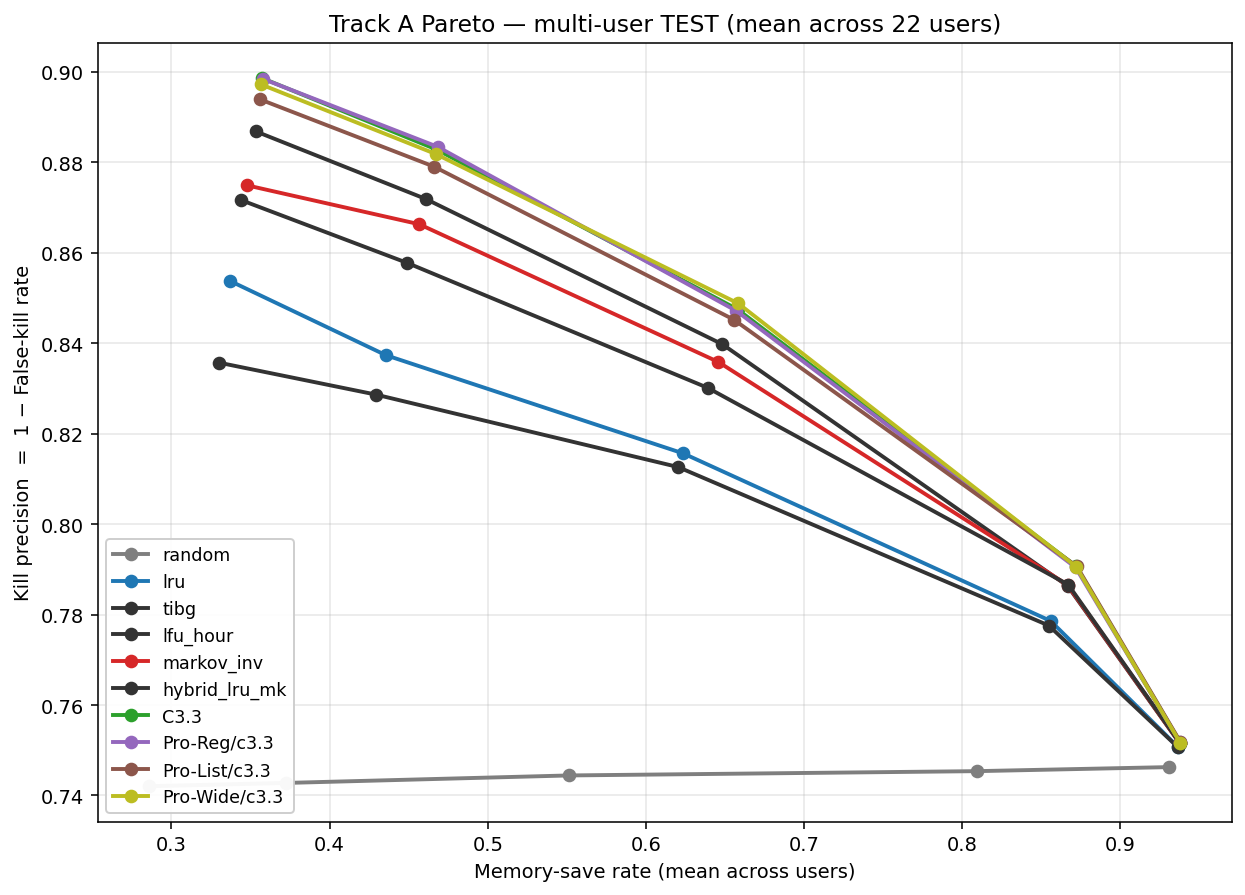
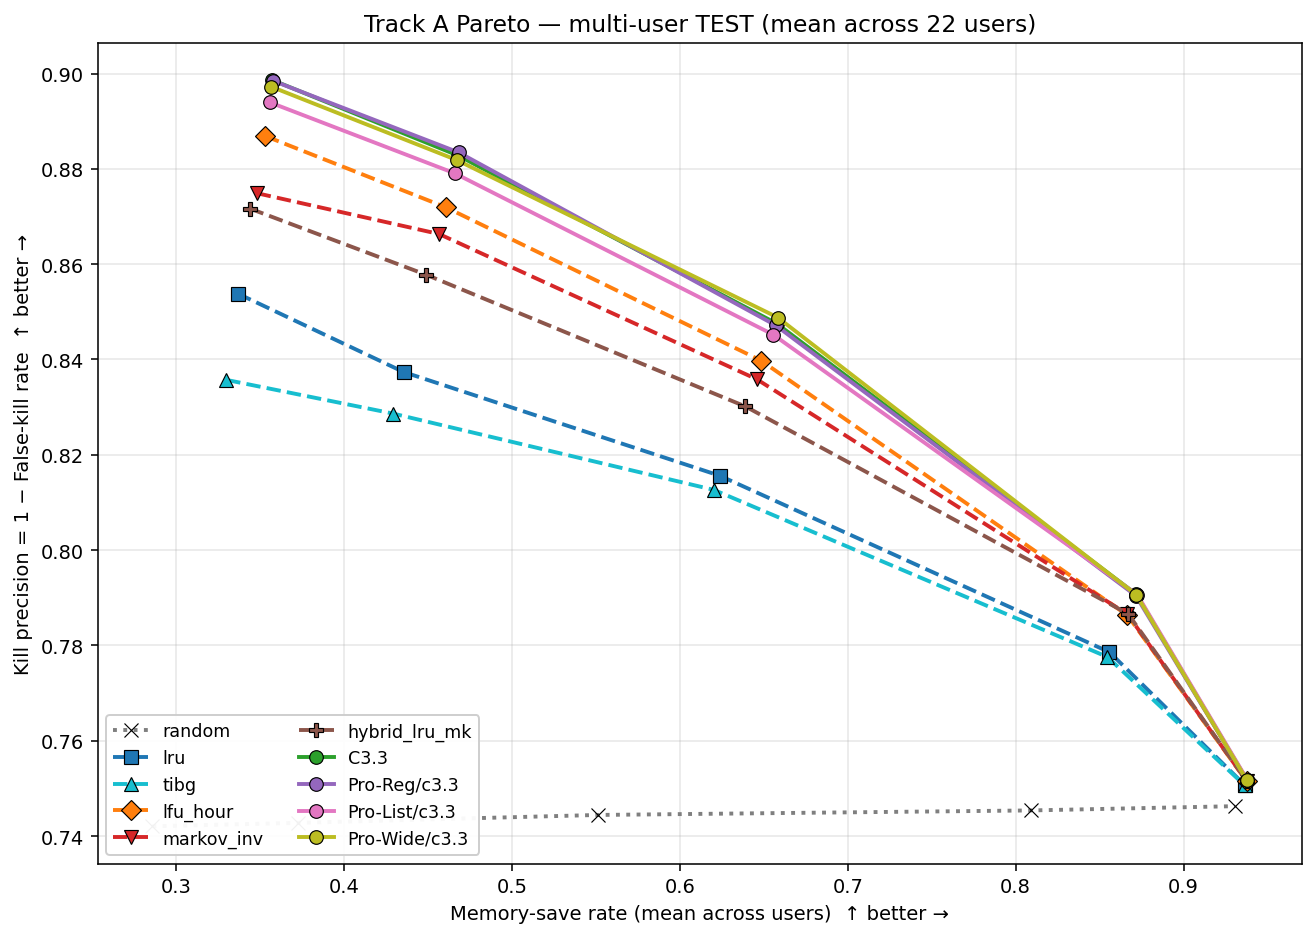
53_eval_h60_multiuser: distinct colours for every baseline + auto-scaled per-user y-axis
Pareto plot:
  - 6 baselines + 4 trained picks each get a deliberate colour + marker
  - Baselines dashed, trained picks solid
  - Marker edges added for visibility against background grid

Per-user PR-AUC bar chart:
  - y-axis auto-scaled to [data_min - 0.02, data_max + 0.02] (currently
    0.61-1.00) so the inter-user variation isn't squashed at the top
  - same colour palette as the Pareto plot
  - bigger figure (13x6.5), legend in 5 columns at the bottom
  - x-tick rotation 60 deg for readability

diff --git a/app_usage_data/scripts/53_eval_h60_multiuser.py b/app_usage_data/scripts/53_eval_h60_multiuser.py
@@ -175,11 +175,27 @@ def bootstrap_user_ci(per_user_vals: list[float], n_boot: int = 1000,
 
 
 def plot_pareto(scored_dfs: dict[str, pd.DataFrame], out_path: Path, title: str):
-    """One Pareto curve per (model, baseline). x = MSR, y = (1 - FK)."""
-    plt.figure(figsize=(9, 6.5), dpi=140)
-    cmap = {"random": "#7f7f7f", "lru": "#1f77b4", "markov_inv": "#d62728",
-            "C3.3": "#2ca02c", "Pro-Reg/c3.3": "#9467bd",
-            "Pro-List/c3.3": "tab:brown", "Pro-Wide/c3.3": "tab:olive"}
+    """One Pareto curve per (model, baseline). x = MSR, y = (1 - FK).
+
+    Each baseline + each trained pick gets a distinct, deliberate colour and
+    line-style so the curves don't blur together.
+    """
+    plt.figure(figsize=(9.5, 6.8), dpi=140)
+    # Distinct colour per baseline (dashed) and per trained pick (solid).
+    cmap = {
+        # Baselines (dashed lines)
+        "random":         {"color": "#7f7f7f", "ls": ":",  "marker": "x"},
+        "lru":            {"color": "#1f77b4", "ls": "--", "marker": "s"},
+        "tibg":           {"color": "#17becf", "ls": "--", "marker": "^"},
+        "lfu_hour":       {"color": "#ff7f0e", "ls": "--", "marker": "D"},
+        "markov_inv":     {"color": "#d62728", "ls": "--", "marker": "v"},
+        "hybrid_lru_mk":  {"color": "#8c564b", "ls": "--", "marker": "P"},
+        # Trained picks (solid lines)
+        "C3.3":           {"color": "#2ca02c", "ls": "-",  "marker": "o"},
+        "Pro-Reg/c3.3":   {"color": "#9467bd", "ls": "-",  "marker": "o"},
+        "Pro-List/c3.3":  {"color": "#e377c2", "ls": "-",  "marker": "o"},
+        "Pro-Wide/c3.3":  {"color": "#bcbd22", "ls": "-",  "marker": "o"},
+    }
     for label, df in scored_dfs.items():
         per_u = per_user_metrics(df, score_col=f"score_for_{label}")
         msr_means = [np.mean([per_u[u]["memory_save_rate"][f"{r}"] for u in per_u])
@@ -187,13 +203,16 @@ def plot_pareto(scored_dfs: dict[str, pd.DataFrame], out_path: Path, title: str)
         fk_means = [np.mean([per_u[u]["false_kill_rate"][f"{r}"] for u in per_u])
                      for r in R_SWEEP]
         kp_means = [1.0 - v for v in fk_means]
-        c = cmap.get(label, "#333")
-        plt.plot(msr_means, kp_means, marker="o", color=c, linewidth=2,
-                 markersize=6, label=label)
-    plt.xlabel("Memory-save rate (mean across users)")
-    plt.ylabel("Kill precision  =  1 − False-kill rate")
+        style = cmap.get(label, {"color": "#333", "ls": "-", "marker": "o"})
+        plt.plot(msr_means, kp_means,
+                 marker=style["marker"], color=style["color"],
+                 linestyle=style["ls"], linewidth=2.0, markersize=7,
+                 markeredgecolor="black", markeredgewidth=0.6,
+                 label=label)
+    plt.xlabel("Memory-save rate (mean across users)  ↑ better →", fontsize=10)
+    plt.ylabel("Kill precision = 1 − False-kill rate  ↑ better →", fontsize=10)
     plt.title(title, fontsize=12)
-    plt.legend(loc="lower left", fontsize=9, framealpha=0.95)
+    plt.legend(loc="lower left", fontsize=9, framealpha=0.95, ncol=2)
     plt.grid(True, alpha=0.3)
     plt.tight_layout()
     plt.savefig(out_path, dpi=140, bbox_inches="tight")
@@ -202,7 +221,12 @@ def plot_pareto(scored_dfs: dict[str, pd.DataFrame], out_path: Path, title: str)
 
 
 def plot_per_user_pr_auc(scored_dfs: dict[str, pd.DataFrame], out_path: Path):
-    """One bar per (user, model) showing PR-AUC, sorted by mean across models."""
+    """One bar per (user, model) showing PR-AUC, sorted by mean across models.
+
+    Y-axis is auto-scaled to the actual data range (with 2% padding) so the
+    visible variation between users / models isn't squashed into the top
+    1/4 of a 0–1 plot.
+    """
     user_pr: dict[str, dict[str, float]] = {}
     for label, df in scored_dfs.items():
         per_u = per_user_metrics(df, score_col=f"score_for_{label}")
@@ -214,19 +238,46 @@ def plot_per_user_pr_auc(scored_dfs: dict[str, pd.DataFrame], out_path: Path):
     mean_per_user = {u: float(np.nanmean(list(user_pr[u].values()))) for u in users}
     users_sorted = sorted(users, key=lambda u: -mean_per_user[u])
     labels = list(scored_dfs.keys())
+    # Distinct colour per (baseline / trained pick) — same palette as the Pareto
+    cmap = {
+        "random": "#7f7f7f", "lru": "#1f77b4", "tibg": "#17becf",
+        "lfu_hour": "#ff7f0e", "markov_inv": "#d62728", "hybrid_lru_mk": "#8c564b",
+        "C3.3": "#2ca02c", "Pro-Reg/c3.3": "#9467bd",
+        "Pro-List/c3.3": "#e377c2", "Pro-Wide/c3.3": "#bcbd22",
+    }
 
-    fig, ax = plt.subplots(figsize=(11, 5.5), dpi=140)
+    # Compute y-range with 2 % padding above and below
+    all_ys = [v for u in users_sorted for v in user_pr[u].values()
+              if isinstance(v, float) and not np.isnan(v)]
+    if all_ys:
+        y_min = max(0.0, min(all_ys) - 0.02)
+        y_max = min(1.0, max(all_ys) + 0.02)
+    else:
+        y_min, y_max = 0.0, 1.0
+
+    fig, ax = plt.subplots(figsize=(13, 6.5), dpi=140)
     x = np.arange(len(users_sorted))
-    width = 0.8 / max(1, len(labels))
+    width = 0.85 / max(1, len(labels))
     for i, lab in enumerate(labels):
         ys = [user_pr[u].get(lab, np.nan) for u in users_sorted]
-        ax.bar(x + i * width, ys, width=width, label=lab)
+        ax.bar(x + i * width, ys, width=width, label=lab,
+               color=cmap.get(lab, "#333"), edgecolor="black", linewidth=0.3)
+
     ax.set_xticks(x + width * (len(labels) - 1) / 2)
-    ax.set_xticklabels(users_sorted, rotation=70, fontsize=7)
-    ax.set_ylabel("test PR-AUC")
-    ax.set_title("Per-user PR-AUC (sorted by mean across models)")
-    ax.legend(fontsize=8, loc="lower left", ncol=3)
-    ax.grid(True, alpha=0.3, axis="y")
+    ax.set_xticklabels(users_sorted, rotation=60, fontsize=7, ha="right")
+    ax.set_ylabel("Test PR-AUC", fontsize=10)
+    ax.set_xlabel("User (sorted by mean PR-AUC across models, descending)", fontsize=10)
+    ax.set_ylim(y_min, y_max)
+    ax.set_title(
+        f"Per-user test PR-AUC across 22 users × {len(labels)} models  "
+        f"(y-axis: {y_min:.2f}–{y_max:.2f})",
+        fontsize=11,
+    )
+    ax.legend(fontsize=8, loc="lower left", ncol=5, framealpha=0.95)
+    ax.grid(True, alpha=0.3, axis="y", linestyle="--")
+    ax.axhline(y=np.nanmean([mean_per_user[u] for u in users_sorted]),
+               color="black", linestyle=":", linewidth=1.0, alpha=0.5,
+               label=None)
     plt.tight_layout()
     plt.savefig(out_path, dpi=140, bbox_inches="tight")
     plt.close()
